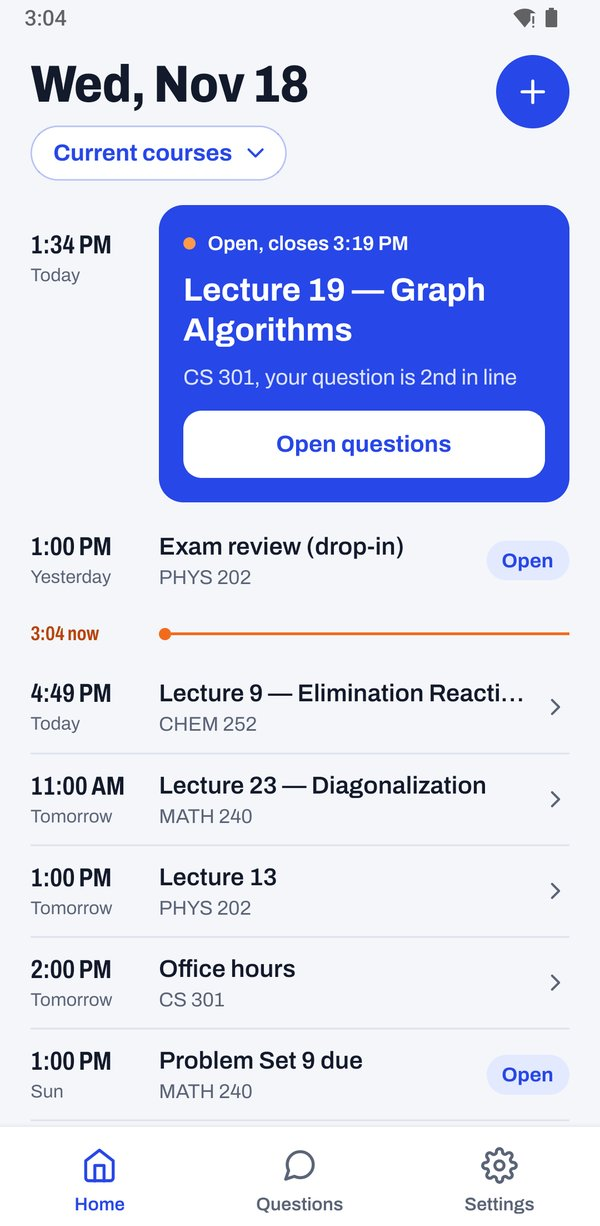
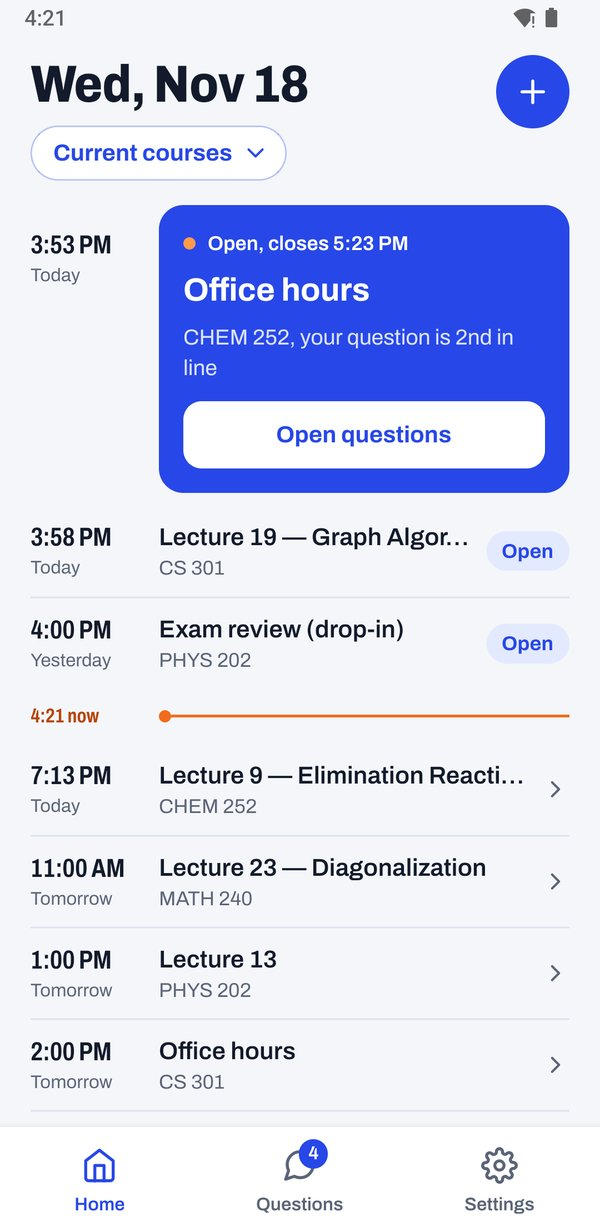
Site: plans cover 3 or 7 TAs per course; screenshots from one session

diff --git a/index.html b/index.html
@@ -382,7 +382,7 @@
           <ul>
             <li>5 courses at a time</li>
             <li>100 students per course</li>
-            <li>Covers 2 TAs in each course</li>
+            <li>Covers 3 TAs in each course</li>
             <li>TA or co-teach in any course</li>
             <li>Unlimited sessions</li>
             <li>AI question grouping</li>
@@ -397,7 +397,7 @@
           <ul>
             <li>15 courses at a time</li>
             <li>500 students per course</li>
-            <li>Covers 5 TAs in each course</li>
+            <li>Covers 7 TAs in each course</li>
             <li>TA or co-teach in any course</li>
             <li>Unlimited sessions</li>
             <li>AI question grouping</li>
@@ -420,7 +420,7 @@
         </details>
         <details>
           <summary>Do TAs need a plan?</summary>
-          <p>Usually not. The instructor's plan covers the first 2 TAs in each course on Standard, or 5 on Pro. More TAs, and co-instructors, need a plan of their own; Standard is enough. The instructor invites them by email, and they accept the invite on their Home.</p>
+          <p>Usually not. The instructor's plan covers the first 3 TAs in each course on Standard, or 7 on Pro. More TAs, and co-instructors, need a plan of their own; Standard is enough. The instructor invites them by email, and they accept the invite on their Home.</p>
         </details>
         <details>
           <summary>What counts toward the course limit?</summary>
